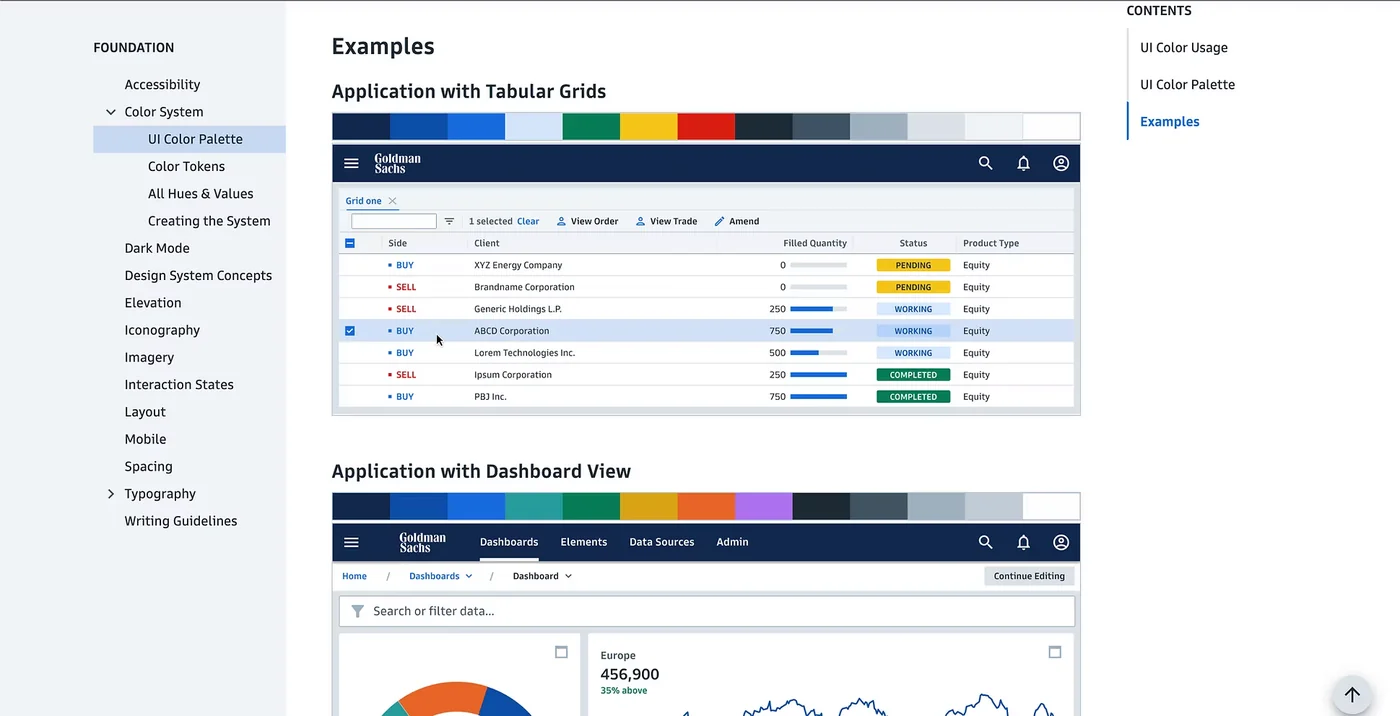
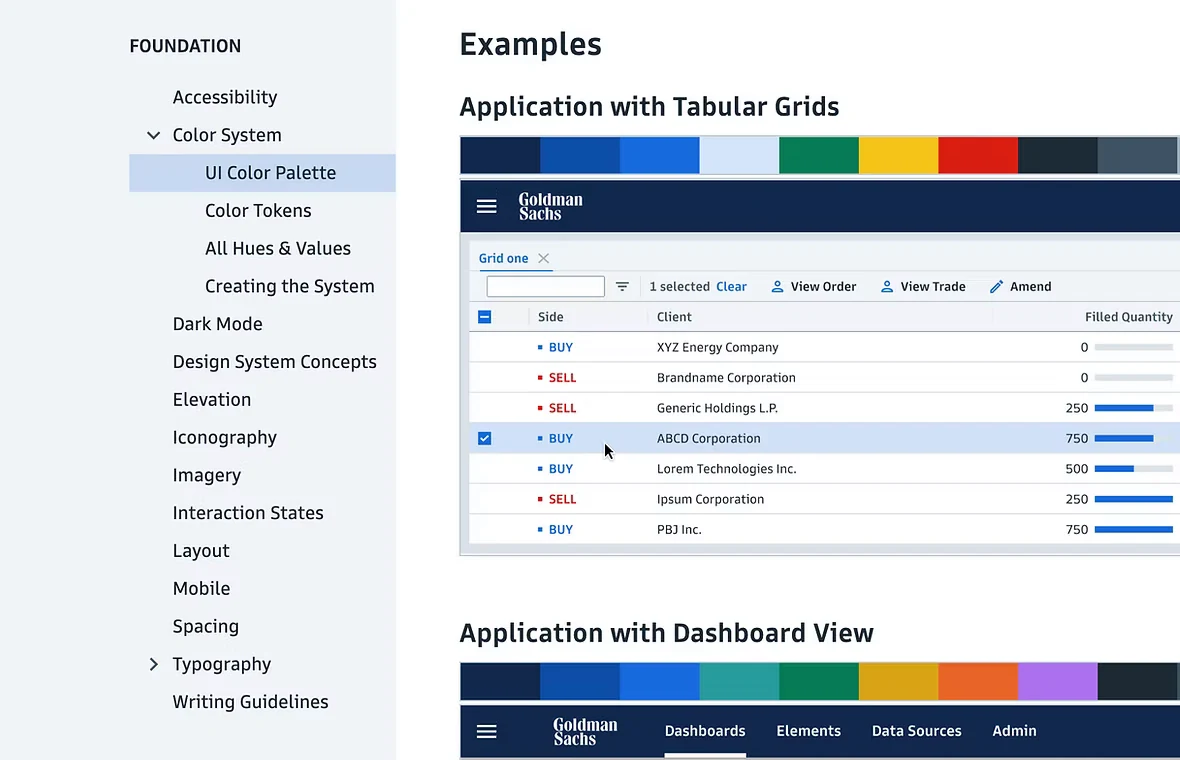
/ux: voice diagram v2, cropped SoundCloud and Goldman images, bigger hero figures

diff --git a/ux.html b/ux.html
@@ -67,12 +67,11 @@
     @media (max-width: 860px) {
       .ux-hero-grid { grid-template-columns: 1fr; gap: 40px; }
     }
-    .ux-proof-cell:last-child .ux-proof-number { font-size: clamp(17px, 1.8vw, 22px); line-height: 1.25; }
     .ux-proof-number {
       font-family: 'Cormorant Garamond', Georgia, serif;
       /* Display scale: these are the first thing to look at on a page with
          no hero image, so they have to read as graphic elements. */
-      font-size: clamp(28px, 3.4vw, 44px);
+      font-size: clamp(36px, 4.6vw, 62px);
       font-weight: 600;
       color: var(--ink);
       line-height: 1.1;
@@ -189,81 +188,74 @@
       .ux-feature-grid { grid-template-columns: 1fr; gap: 32px; }
     }
 
-    /* ── VOICE DIAGRAM (supplied component, tokens remapped) ─────
-       Five tokens point at the site's own values. The gold is a
-       darkened amber: the site's --amber #B8903A is 2.65:1 on cream,
-       which fails AA at the 10 and 11px the labels are set in.
-       #86692C reads as the same hue at 4.62:1. ── */
+    /* ── VOICE DIAGRAM v2 (supplied component, tokens remapped) ──
+       Gold is a darkened amber: the site's --amber #B8903A is 2.65:1 on
+       cream and these labels run at 10.5 and 11px. #86692C is 4.62:1. ── */
     .voice-diagram {
       --vd-ink:   var(--ink);
       --vd-dim:   #6E6862;
       --vd-gold:  #86692C;
       --vd-rule:  var(--rule);
       --vd-bg:    var(--cream);
+      --vd-spec:  #EDE8DD;
 
       --vd-serif: 'Cormorant Garamond', Georgia, serif;
       --vd-sans:  'DM Sans', system-ui, sans-serif;
+      --vd-mono:  ui-monospace, SFMono-Regular, Menlo, Consolas, monospace;
 
-      margin: clamp(36px, 4.5vw, 56px) 0 0;
-      padding: 0;
-      max-width: 920px;
+      margin: clamp(40px, 5vw, 64px) 0;
       color: var(--vd-ink);
       font-family: var(--vd-sans);
+      max-width: 1100px;
     }
     .voice-diagram * { box-sizing: border-box; }
-    .vd-grid {
-      display: grid;
-      grid-template-columns: 1fr;
-      gap: 0;
-      border-top: 1px solid var(--vd-rule);
-      border-bottom: 1px solid var(--vd-rule);
-    }
-    .vd-col { padding: 30px 0; }
-    .vd-col + .vd-col { border-top: 1px solid var(--vd-rule); }
-    @media (min-width: 720px) {
-      .vd-grid { grid-template-columns: 1fr 1fr; }
-      .vd-col { padding: 34px 40px 34px 0; display: flex; flex-direction: column; }
-      .vd-col + .vd-col { border-top: 0; border-left: 1px solid var(--vd-rule); padding: 34px 0 34px 40px; }
-      .vd-inner { margin: auto 0; }
-    }
+    .vd-grid { display: grid; grid-template-columns: 1fr; gap: 2px; border-top: 1px solid var(--vd-rule); }
+    @media (min-width: 820px) { .vd-grid { grid-template-columns: 1fr 1fr; } }
+    .vd-side { padding: 30px 0 34px; }
     .vd-label {
-      margin: 0 0 18px;
+      margin: 0 0 26px;
       font-size: 11px;
       font-weight: 700;
-      letter-spacing: 0.13em;
+      letter-spacing: 0.14em;
       text-transform: uppercase;
       color: var(--vd-gold);
     }
+    .vd-foot { margin: 26px 0 0; font-size: 13px; line-height: 1.55; color: var(--vd-dim); max-width: 34em; }
+    .vd-human { padding-right: 0; }
+    @media (min-width: 820px) { .vd-human { padding-right: 56px; } }
     .vd-attr {
-      margin: 0 0 12px;
+      margin: 0 0 18px;
       font-family: var(--vd-serif);
-      font-size: 22px;
-      line-height: 1.25;
+      font-size: clamp(30px, 4.4vw, 46px);
+      line-height: 1.1;
+      letter-spacing: -0.01em;
       color: var(--vd-ink);
     }
-    .vd-body { margin: 0; font-size: 15px; line-height: 1.6; color: var(--vd-ink); }
-    .vd-spec { margin: 0; }
-    .vd-spec dt {
-      margin: 0 0 3px;
-      font-size: 10px;
+    .vd-gloss { margin: 0; font-size: 16px; line-height: 1.6; color: var(--vd-ink); max-width: 26em; }
+    .vd-model { background: var(--vd-spec); padding: 30px 26px 34px; }
+    @media (min-width: 820px) { .vd-model { padding: 30px 32px 34px; } }
+    .vd-rows { margin: 0; }
+    .vd-row { display: grid; grid-template-columns: 1fr; gap: 2px 18px; padding: 11px 0; border-top: 1px solid var(--vd-rule); }
+    .vd-row:first-child { border-top: 0; padding-top: 0; }
+    @media (min-width: 560px) { .vd-row { grid-template-columns: 86px 1fr; gap: 0 18px; } }
+    .vd-key {
+      font-family: var(--vd-mono);
+      font-size: 10.5px;
       font-weight: 700;
-      letter-spacing: 0.12em;
+      letter-spacing: 0.1em;
       text-transform: uppercase;
       color: var(--vd-gold);
+      padding-top: 2px;
     }
-    .vd-spec dd { margin: 0 0 16px; font-size: 15px; line-height: 1.55; color: var(--vd-ink); }
-    .vd-spec dd:last-of-type { margin-bottom: 0; }
-    .vd-quote { font-family: var(--vd-serif); font-style: italic; }
-    .vd-spec dd.vd-miss { color: var(--vd-dim); }
-    .vd-note {
-      margin: 22px 0 0;
-      padding-top: 16px;
-      border-top: 1px solid var(--vd-rule);
-      font-size: 13px;
-      line-height: 1.55;
+    .vd-val { font-family: var(--vd-mono); font-size: 13.5px; line-height: 1.55; color: var(--vd-ink); }
+    .vd-val em { font-style: normal; color: var(--vd-dim); }
+    .vd-row--fail .vd-key { color: var(--vd-dim); }
+    .vd-row--fail .vd-val {
       color: var(--vd-dim);
+      text-decoration: line-through;
+      text-decoration-thickness: 1px;
+      text-decoration-color: var(--vd-rule);
     }
-    .vd-caption { margin: 20px 0 0; font-size: 13px; line-height: 1.55; color: var(--vd-dim); }
 
     /* ── HOW I GOT HERE ───────────────────────────── */
     .ux-section {
@@ -600,10 +592,6 @@
             <span class="ux-proof-number">~40</span>
             <span class="ux-proof-label">Components given a language layer, Goldman Sachs design system</span>
           </div>
-          <div class="ux-proof-cell">
-            <span class="ux-proof-number">Silver, NYC Design Awards</span>
-            <span class="ux-proof-label">Best mobile marketing, American Express (with Huge)</span>
-          </div>
         </div>
       </div>
     </section>
@@ -626,50 +614,48 @@
       <figure class="voice-diagram">
         <div class="vd-grid">
 
-          <div class="vd-col">
+          <div class="vd-side vd-human">
             <p class="vd-label">Written for a person</p>
-            <div class="vd-inner">
-              <p class="vd-attr">Confident, not arrogant.</p>
-              <p class="vd-body">
-                We are self-assured without boasting. State what we know. Do not
-                oversell.
-              </p>
-              <p class="vd-note">
-                A writer reads this and interprets it. Two writers will interpret it
-                two ways, and both will be able to defend their version.
-              </p>
-            </div>
+            <p class="vd-attr">Confident,<br>not arrogant.</p>
+            <p class="vd-gloss">
+              We are self-assured without boasting. State what we know. Do not
+              oversell.
+            </p>
+            <p class="vd-foot">
+              Two writers read this and write two different lines. Both can defend
+              theirs.
+            </p>
           </div>
 
-          <div class="vd-col">
+          <div class="vd-side vd-model">
             <p class="vd-label">Written for a model</p>
-            <div class="vd-inner">
-            <dl class="vd-spec">
 
-              <dt>The rule</dt>
-              <dd>State capability as fact. No superlatives, no comparison against a
-                  competitor.</dd>
+            <div class="vd-rows">
+              <div class="vd-row">
+                <div class="vd-key">Rule</div>
+                <div class="vd-val">State capability as fact. No superlatives, no comparison against a competitor.</div>
+              </div>
+              <div class="vd-row">
+                <div class="vd-key">Boundary</div>
+                <div class="vd-val">Never &ldquo;best&rdquo;, &ldquo;leading&rdquo;, &ldquo;unmatched&rdquo;. Never a comparison against a rival, named or implied.</div>
+              </div>
+              <div class="vd-row">
+                <div class="vd-key">Pass</div>
+                <div class="vd-val">&ldquo;Runs at 42 decibels.&rdquo;</div>
+              </div>
+              <div class="vd-row vd-row--fail">
+                <div class="vd-key">Fail</div>
+                <div class="vd-val">&ldquo;The quietest in its class.&rdquo;</div>
+              </div>
+              <div class="vd-row">
+                <div class="vd-key">Why</div>
+                <div class="vd-val"><em>The near miss makes a comparison the reader cannot check, which is the boast the attribute exists to prevent.</em></div>
+              </div>
+            </div>
 
-              <dt>The boundary</dt>
-              <dd>Never &ldquo;best,&rdquo; &ldquo;leading,&rdquo; &ldquo;unmatched.&rdquo; Never a comparison against a
-                  rival, named or implied.</dd>
-
-              <dt>Correct</dt>
-              <dd class="vd-quote">&ldquo;Runs at 42 decibels.&rdquo;</dd>
-
-              <dt>Nearly correct</dt>
-              <dd class="vd-quote vd-miss">&ldquo;The quietest in its class.&rdquo;</dd>
-
-              <dt>How to tell them apart</dt>
-              <dd>The near miss makes a comparison the reader cannot check, which is
-                  the boast the attribute exists to prevent. The correct version
-                  gives the number and lets the reader draw the conclusion.</dd>
-
-            </dl>
-            <p class="vd-note">
+            <p class="vd-foot">
               Same attribute. Now it can be followed, tested, and graded.
             </p>
-            </div>
           </div>
 
         </div>
@@ -700,8 +686,8 @@
         </div>
       </div>
       <figure class="ux-feature-shot ux-feature-bleed">
-          <img src="images/soundcloud-app.avif" onclick="lbux(this.src)" alt="The SoundCloud Go launch page: Introducing SoundCloud Go, even more tracks, offline and ad-free, from Top 40 to the underground, takeoff to touchdown, with a 30-day free trial.">
-          <figcaption class="ux-feature-bleed-cap">The SoundCloud Go launch page.</figcaption>
+          <img src="images/soundcloud-go-headline.webp" onclick="lbux(this.src)" width="1540" height="700" loading="lazy" decoding="async" alt="The SoundCloud Go launch headline: Introducing SoundCloud Go. Even more tracks, offline and ad-free. From Top 40 to the underground. Takeoff to touchdown. Try it free for 30 days, 9.99 a month after.">
+          <figcaption class="ux-feature-bleed-cap">The SoundCloud Go launch, cropped to the lines.</figcaption>
       </figure>
     </section>
 
@@ -747,7 +733,7 @@
         </figure>
         <p class="ux-archive-link"><a href="https://web.archive.org/web/20210413032934/https://design.gs.com/home" target="_blank" rel="noopener">Read it in the Internet Archive, April 2021 &rarr;</a></p>
         <figure class="ux-shot">
-          <img src="images/goldman/gs-foundation-writing-guidelines.webp" onclick="lbux(this.src)" width="1400" height="716" loading="lazy" decoding="async" alt="A Foundation page of the Goldman Sachs design system. The left sidebar lists Accessibility, Color System, Dark Mode, Design System Concepts, Elevation, Iconography, Imagery, Interaction States, Layout, Mobile, Spacing, Typography, and Writing Guidelines.">
+          <img src="images/goldman/gs-foundation-writing-guidelines.webp" onclick="lbux(this.src)" width="1180" height="760" loading="lazy" decoding="async" alt="A Foundation page of the Goldman Sachs design system. The left sidebar lists Accessibility, Color System, Dark Mode, Design System Concepts, Elevation, Iconography, Imagery, Interaction States, Layout, Mobile, Spacing, Typography, and Writing Guidelines.">
           <figcaption>Writing Guidelines sat in the Foundation nav, beside color, typography, and spacing.</figcaption>
         </figure>
       </div>
